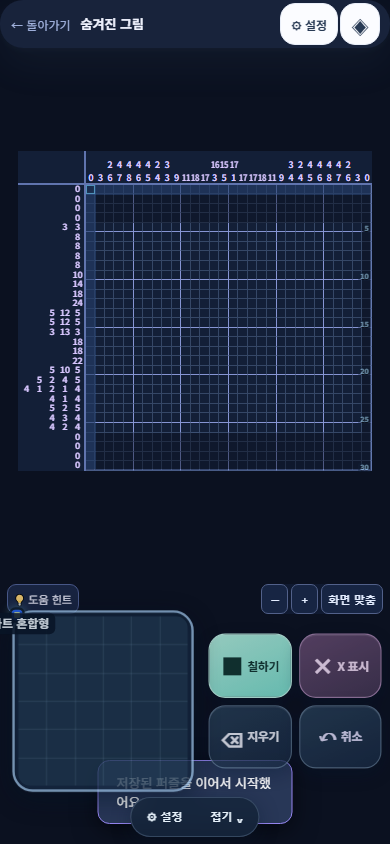
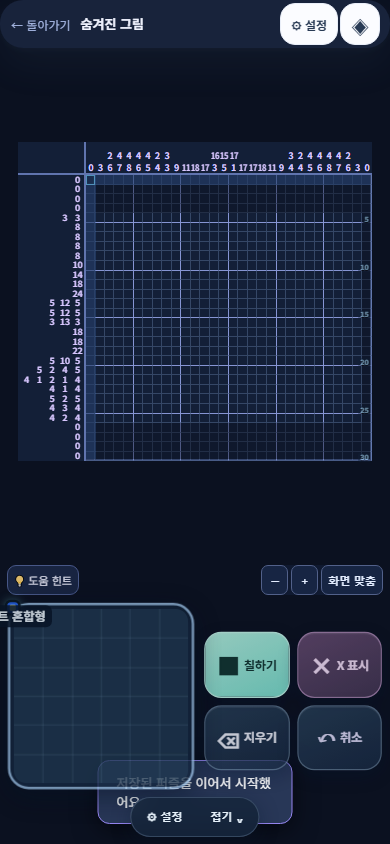
Document final mobile regression verification and refreshed evidence

diff --git a/docs/TASTE-REDESIGN-20261112.md b/docs/TASTE-REDESIGN-20261112.md
@@ -72,3 +72,12 @@ HTML의 nav/support aside와 테마 복원 위치를 새로 구성했으며, 기
 [1440 홈](taste-redesign-20261112/home-1440.png) · [1024 홈](taste-redesign-20261112/home-1024.png) · [768 홈](taste-redesign-20261112/home-768.png) · [390 홈](taste-redesign-20261112/home-390.png)
 
 [390 플레이](taste-redesign-20261112/play-390.png) · [30×30 스마트 혼합형](taste-redesign-20261112/mobile-smartHybrid-vox_crabino_front.png)
+
+## 2026-11-13 최종 통합 확인
+
+- 재개 시 추가된 main 변경은 `backup/2026-11-13-pre-taste-final` (`971e477`)에 보존한 뒤 병합했다.
+- 카탈로그 CI의 고정 `v=1` 주소 검사를 실제 배포 파일의 SHA-256 내용 해시 검사로 바꿨다. 카탈로그/정답 보호 검사는 유지한다.
+- 스마트 혼합형의 실제 152×152 표면과 다른 크기를 사용하던 배치 계산을 수정했다. 확대 도구와 조작 패드 사이의 간격도 실제 브라우저로 검사한다.
+- 재검사 PASS: 화면/기능 26개, 스마트 입력 기하 432개, 카탈로그, 정답 비트팩/암호화/등록/준비, 비파괴 이관, VOX 미리보기, 생성형 시험 퍼즐, 실제 Chromium WASM Worker.
+- 첫 배포 `8b2d0eb`의 Cloudflare Workers 빌드는 성공했고 실사이트에서 새 탐색 영역 및 준비 완료 이벤트를 확인했다. 최초 GitHub browser-smoke는 위 카탈로그 고정 주소 검사에서 실패했으며, 게임 기능 테스트 실패와 구분한다.
+- 대형 퍼즐/모바일 통합 검사 PASS: 토끼 53×73·사무라이 72×72 원래 편집기, 저장/이어하기, 390×844·320×568·844×390에서 6개 조작 방식 × 65/100/150% 크기, 확대 도구/패드 경계, 내부 줌 이동.
